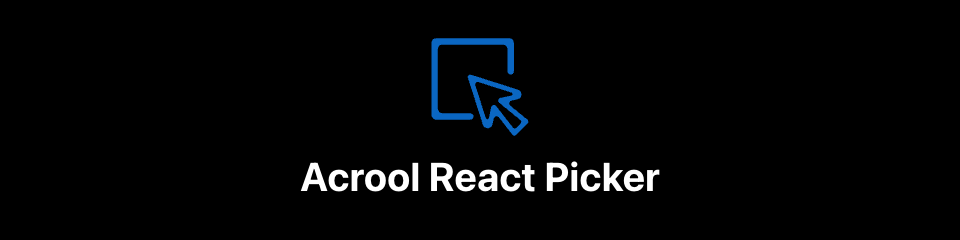
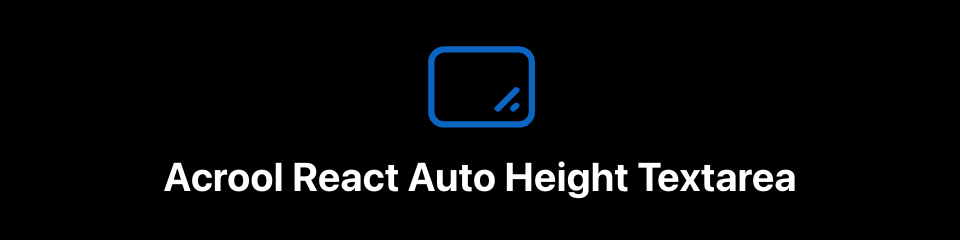
modify example & READEME

Changed region(s): [[0.1562, 0.6708, 0.8438, 0.8458], [0.4375, 0.1458, 0.5625, 0.5542]]

diff --git a/example/src/views/Example/Example.tsx b/example/src/views/Example/Example.tsx
@@ -5,8 +5,16 @@ import Textarea from '../../components/Textarea';
 
 
 const Example = () => {
-    const [isVisible, setVisible] = useState(false);
-    const [value, setValue] = useState<string>('AppleAppleAppleAppleAppleAppleAppleAppleAppleAppleAppleAppleAppleAppleAppleAppleAppleAppleAppleAppleAppleAppleAppleAppleAppleAppleAppleAppleAppleAppleAppleAppleAppleAppleAppleAppleAppleAppleAppleAppleAppleAppleAppleAppleAppleAppleAppleAppleAppleAppleAppleAppleAppleAppleAppleAppleAppleAppleAppleAppleAppleAppleAppleAppleAppleAppleAppleAppleAppleAppleAppleAppleAppleAppleAppleAppleAppleAppleAppleAppleAppleAppleAppleAppleAppleAppleAppleAppleAppleAppleAppleAppleAppleAppleAppleAppleAppleAppleAppleAppleAppleAppleAppleAppleAppleAppleAppleApple');
+    const [isVisible, setVisible] = useState(true);
+    const [value, setValue] = useState<string>('Acrool is an developer driven platform to visually design and manage project infrastructure, collaboratively.\n' +
+        '\n' +
+        'It\'s the solution for any providerAcrool is an developer driven platform to visually design and manage project infrastructure, collaboratively.\n' +
+        '\n' +
+        'It\'s the solution for any providerAcrool is an developer driven platform to visually design and manage project infrastructure, collaboratively.\n' +
+        '\n' +
+        'It\'s the solution for any providerAcrool is an developer driven platform to visually design and manage project infrastructure, collaboratively.\n' +
+        '\n' +
+        'It\'s the solution for any provider');
 
     const mainRef = useRef<HTMLTextAreaElement>(null);
 
@@ -40,14 +48,11 @@ const Example = () => {
     };
 
 
-    return <div style={{maxWidth: '500px', width: '100%', height: '1000px', backgroundColor: 'red'}}>
+    return <div style={{maxWidth: '500px', width: '100%', margin: '0 auto'}}>
 
-        <div style={{height: '1200px', backgroundColor: 'blue'}}></div>
         <button type="button" onClick={() => setVisible(curr => !curr)}>{String(isVisible)}</button>
 
         {renderContent()}
-
-
     </div>;
 };
 

diff --git a/example/src/App.tsx b/example/src/App.tsx
@@ -10,7 +10,7 @@ function App() {
     return (
         <GridThemeProvider>
             <div className="App">
-                {/*<Banner/>*/}
+                <Banner/>
                 <Example/>
 
             </div>

diff --git a/README.md b/README.md
@@ -1,11 +1,11 @@
 # Acrool React Auto Height Textarea
 
-<a href="https://acrool-react-auto-height-textarea.pages.dev/" title="Acrool React Auto Height Textarea - This is a react method to quickly combine buttons with Auto Height Textarea">
+<a href="https://acrool-react-auto-height-textarea.pages.dev/" title="Acrool React Auto Height Textarea">
     <img src="https://raw.githubusercontent.com/acrool/acrool-react-auto-height-textarea/main/example/public/og.webp" alt="Acrool React Auto Height Textarea Logo"/>
 </a>
 
 <p align="center">
-    This is a react method to quickly combine buttons with Auto Height Textarea
+    Auto-height Textarea element.
 </p>
 
 <div align="center">
@@ -25,10 +25,7 @@
 
 ## Features
 
-- Quickly create various Pickers such as Datepicker, timepicker, Select dropdown, etc.
-- Plug and unplug using `framer-motion`
-- Simulate the browser's native drop-down menu behavior (click outside to close, lose focus to close, open the menu when the keyboard is pressed or blank)
-- The agent menu OnChange and value changes can be controlled freely and will be saved when the menu is closed.
+- Auto-height Textarea element.
 
 
 ## Install
@@ -48,13 +45,18 @@ add in your App.tsx
 
 
 ```tsx
-import {isEmpty} from '@acrool/js-utils/equal';
-import clsx from 'clsx';
-import React, {ForwardedRef} from 'react';
-import styled, {css} from 'styled-components';
+import AutoHeightTextarea from '@acrool/react-auto-height-textarea';
 
-import NumberKeyboard from './NumberKeyboard';
-import {createPicker, usePicker} from '@acrool/react-auto-height-textarea';
+const Example = () => {
+    const [value, setValue] = useState('');
+    
+    return <Comment
+        value={editValue}
+        onChange={e => setEditValue(e.target.value)}
+        placeholder="Type your message"
+        rows={1}
+    />;
+}
 
 
 ```
